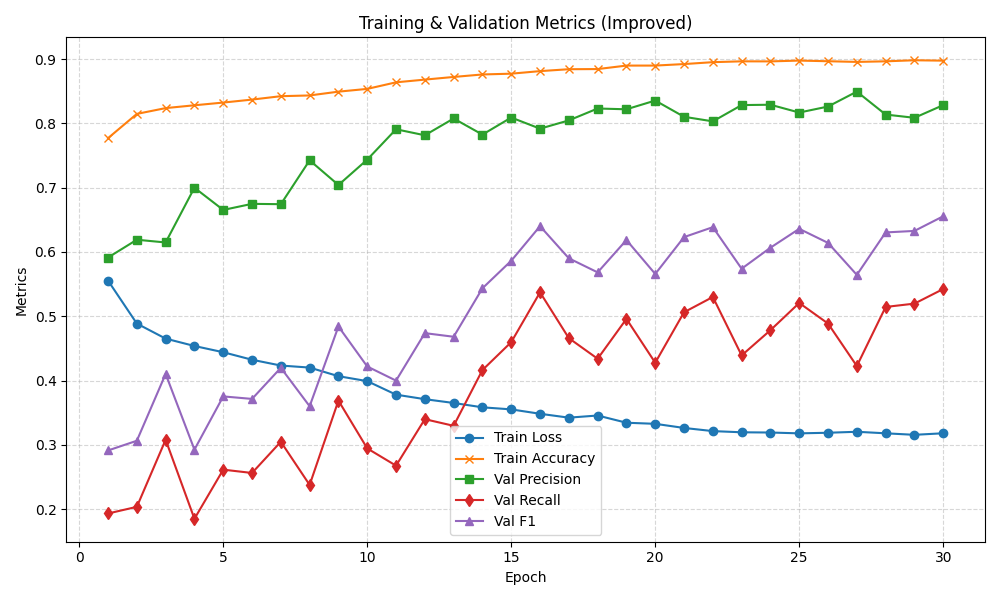
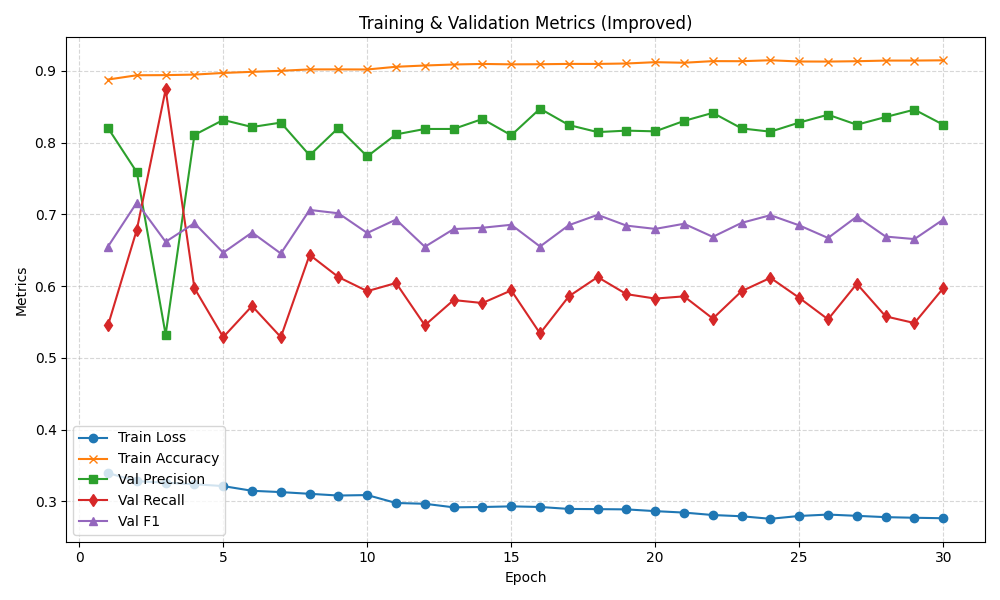
modify_2

diff --git a/Task1/For_TA_test.py b/Task1/For_TA_test.py
@@ -1,5 +1,8 @@
 import argparse
 import torch
+import json
+import os
+import sys
 from torch.utils.data import DataLoader
 from dataloader import DefectDataset 
 from model import CNN
@@ -7,7 +10,6 @@ from utils import compute_metrics
 
 def main():
     parser = argparse.ArgumentParser()
-    # TA 会传入 .../dataset/test 这样的路径
     parser.add_argument('--test_data_path', type=str, required=True, help='Path to test directory')
     args = parser.parse_args()
 
@@ -16,31 +18,33 @@ def main():
     # 1. 加载模型结构
     model = CNN(device)
     
-    # 2. 加载权重
+    # 2. 加载权重 (增加健壮性处理)
+    model_path = 'saved_model.pt'
+    if not os.path.exists(model_path):
+        print(f"Error: {model_path} not found. Make sure you trained the model first.")
+        return
+
     try:
         # map_location 确保在只有 CPU 的机器上也能跑
-        state = torch.load('saved_model.pt', map_location=device)
-        model.conv1_weight = state['conv1_weight'].to(device)
-        model.conv1_bias = state['conv1_bias'].to(device)
-        model.conv2_weight = state['conv2_weight'].to(device)
-        model.conv2_bias = state['conv2_bias'].to(device)
-        model.fc_weight = state['fc_weight'].to(device)
-        model.fc_bias = state['fc_bias'].to(device)
+        state = torch.load(model_path, map_location=device)
         
-        # 加载中间层权重 (辅助层)
-        model.c2_w = state['c2_w'].to(device)
-        model.c2_b = state['c2_b'].to(device)
-        model.c4_w = state['c4_w'].to(device)
-        model.c4_b = state['c4_b'].to(device)
-        model.c5_w = state['c5_w'].to(device)
-        model.c5_b = state['c5_b'].to(device)
-        model.c6_w = state['c6_w'].to(device)
-        model.c6_b = state['c6_b'].to(device)
-    except KeyError as e:
-        # 防止权重键名不匹配导致崩溃，打印错误但不中断（虽然这样预测结果会不对）
-        pass
-    except FileNotFoundError:
-        print("Error: saved_model.pt not found.")
+        # 逐层加载参数 (对应 model.py 中的定义)
+        layers = [
+            'conv1_weight', 'conv1_bias', 'c2_w', 'c2_b',
+            'conv2_weight', 'conv2_bias', 'c4_w', 'c4_b',
+            'c5_w', 'c5_b', 'c6_w', 'c6_b',
+            'fc_weight', 'fc_bias'
+        ]
+        
+        for layer in layers:
+            if layer in state:
+                # getattr(model, layer) 获取模型中的属性，.data.copy_() 原地更新数据
+                getattr(model, layer).data.copy_(state[layer].to(device))
+            else:
+                print(f"Warning: Missing key {layer} in saved model.")
+                
+    except Exception as e:
+        print(f"Error loading model weights: {e}")
         return
 
     # 3. 加载数据
@@ -51,23 +55,51 @@ def main():
     # 4. 推理
     y_true = []
     y_pred = []
-    
+    results = {}
+    print(f"Start inference on {len(test_dataset)} images...")
     with torch.no_grad():
-        for img, label in test_loader:
+        for idx, (img, label) in enumerate(test_loader):
             img = img.to(device)
             output = model.forward(img)
-            # 这里的阈值 0.5 可以根据验证集微调，比如改为 0.4 或 0.6
-            pred_label = 1 if output.item() >= 0.5 else 0
             
+            # 阈值判断 (0.5)
+            pred_score = output.item()
+            pred_label = 1 if pred_score >= 0.5 else 0
+            
+            # --- 核心：获取文件名用于生成 JSON ---
+            # 假设 test_dataset.samples[idx] = (img_path, label, aug_flag)
+            try:
+                img_path = test_dataset.samples[idx][0]
+                # 获取文件名 (不带路径) -> "glass_001.png"
+                basename = os.path.basename(img_path)
+                # 去除扩展名 -> "glass_001"
+                file_key = os.path.splitext(basename)[0]
+                
+                # 存入字典: Task 1 要求 True(有缺陷) / False(无缺陷)
+                results[file_key] = True if pred_label == 1 else False
+                
+            except Exception as e:
+                print(f"Error processing filename for index {idx}: {e}")
             y_true.append(label.item())
             y_pred.append(pred_label)
+    #5. 保存结果为 JSON (这是评分的关键！)
+    student_id = 'PB23050934' 
+    json_filename = f'{student_id}.json'
+    
+    with open(json_filename, 'w') as f:
+        json.dump(results, f, indent=4)
+    print(f">> JSON result saved to {json_filename}")
 
-    # 5. 计算指标
-    _, _, f1 = compute_metrics(y_true, y_pred)
-
-    # 6. 输出结果
-    student_id = 'PB23000000' 
-    print(f'{student_id}:{f1:.2f}') 
+    # 6. 计算 F1 分数 (仅当有标签时)
+    # 检查 y_true 是否包含有效标签 (如果全是 0 且没有 txt 文件，可能是隐藏测试集)
+    # 这里简单尝试计算
+    try:
+        precision, recall, f1 = compute_metrics(y_true, y_pred)
+        # 按照要求输出学号和分数
+        print(f'{student_id}:{f1:.2f}')
+        print(f"Detailed Metrics - Precision: {precision:.4f}, Recall: {recall:.4f}, F1: {f1:.4f}")
+    except Exception as e:
+        print("Skipping metric calculation (Ground truth might be missing or all non-defective).")
 
 if __name__ == '__main__':
     main()

diff --git a/Task1/main.py b/Task1/main.py
@@ -17,6 +17,7 @@ def main():
     parser = argparse.ArgumentParser()
     parser.add_argument('--train_data_path', type=str, required=True)
     parser.add_argument('--val_data_path', type=str, required=True)
+    parser.add_argument('--resume', type=str, default=None, help='Path to .pt file to resume from')
     args = parser.parse_args()
 
     # -------------------------------
@@ -32,21 +33,20 @@ def main():
     train_dataset = DefectDataset(args.train_data_path, augment=True)
     val_dataset = DefectDataset(args.val_data_path, augment=False)
 
-    # 保持 128，如果显存紧张(OOM)可调小到 64
     batch_size = 64
     
     train_loader = DataLoader(
         train_dataset,
         batch_size=batch_size,
         shuffle=True,
-        num_workers=4,
+        num_workers=6,
         pin_memory=True
     )
     val_loader = DataLoader(
         val_dataset,
         batch_size=batch_size,
         shuffle=False,
-        num_workers=4,
+        num_workers=6,
         pin_memory=True
     )
 
@@ -54,7 +54,42 @@ def main():
     # 4. Initialize model
     # -------------------------------
     model = CNN(device)
+    if args.resume is not None:
+        if os.path.exists(args.resume):
+            print(f"Resuming training from {args.resume} ...")
+            # map_location 确保跨设备加载不出错
+            checkpoint = torch.load(args.resume, map_location=device)
+            
+            # 使用 try-except 块以防旧模型文件缺少某些层的参数
+            try:
+                # Block 1
+                model.conv1_weight = checkpoint['conv1_weight'].to(device)
+                model.conv1_bias = checkpoint['conv1_bias'].to(device)
+                model.c2_w = checkpoint['c2_w'].to(device)
+                model.c2_b = checkpoint['c2_b'].to(device)
 
+                # Block 2
+                model.conv2_weight = checkpoint['conv2_weight'].to(device)
+                model.conv2_bias = checkpoint['conv2_bias'].to(device)
+                model.c4_w = checkpoint['c4_w'].to(device)
+                model.c4_b = checkpoint['c4_b'].to(device)
+
+                # Block 3
+                model.c5_w = checkpoint['c5_w'].to(device)
+                model.c5_b = checkpoint['c5_b'].to(device)
+                model.c6_w = checkpoint['c6_w'].to(device)
+                model.c6_b = checkpoint['c6_b'].to(device)
+
+                # FC
+                model.fc_weight = checkpoint['fc_weight'].to(device)
+                model.fc_bias = checkpoint['fc_bias'].to(device)
+                
+                print(" >> Weights loaded successfully!")
+                
+            except KeyError as e:
+                print(f" >> Warning: Key {e} not found in checkpoint. Some layers might be initialized randomly.")
+        else:
+            print(f" >> Error: Checkpoint file {args.resume} not found!")
     # -------------------------------
     # 5. Hyperparameters (经过优化)
     # -------------------------------
@@ -103,10 +138,10 @@ def main():
 
                 # --- Forward ---
                 out = model.forward(xb)
-
+                pos_weight = 2.0
                 # --- Loss Calculation (Manual BCE) ---
                 # 添加 epsilon 防止 log(0)
-                loss = -(yb * torch.log(out + 1e-6) +
+                loss = -(pos_weight*yb * torch.log(out + 1e-6) +
                          (1 - yb) * torch.log(1 - out + 1e-6)).mean()
 
                 # --- Backward (Manual with Momentum) ---

diff --git a/Task1/model.py b/Task1/model.py
@@ -25,7 +25,7 @@ class CNN:
         self.c6_w = init_w(64, 64, 3)
         self.c6_b = torch.zeros(64, device=device)
 
-        # === 修改点在这里 ===
+        
         # 原来是 64*28*28，现在输入320，经过3次2x2池化变成40
         self.flat_dim = 64 * 40 * 40 
         # ====================

diff --git a/Task1/dataloader.py b/Task1/dataloader.py
@@ -58,7 +58,7 @@ class DefectDataset(Dataset):
 
             self.samples.append((img_path, label, False))
 
-            if has_defect:
+            if has_defect and augment: 
                 for _ in range(defect_aug_times):
                     self.samples.append((img_path, label, True))
 
